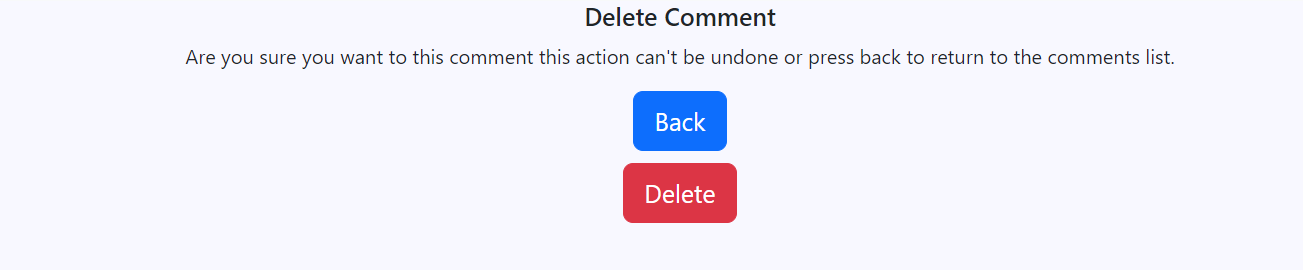
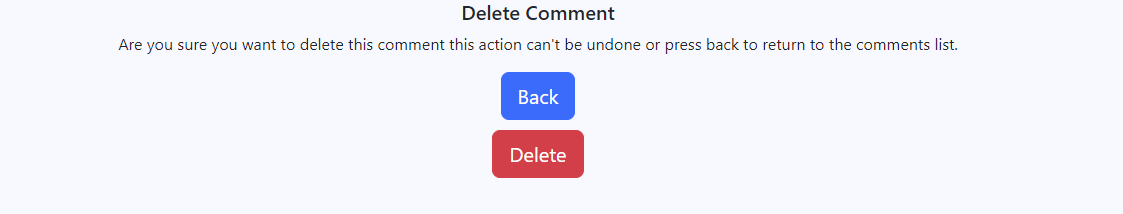
Updated delete comment admin wireframe for readme

diff --git a/guides/templates/delete_comment.html b/guides/templates/delete_comment.html
@@ -4,7 +4,7 @@
 <div class="container-fluid">
     <h3 class="text-center">Delete Comment</h3>
     {% if user.is_superuser %}
-    <p class="text-center">Are you sure you want to this comment this action can't be undone
+    <p class="text-center">Are you sure you want to delete this comment this action can't be undone
         or press back to
         return to the comments list.</p>
     {% else %}

diff --git a/README.md b/README.md
@@ -244,7 +244,7 @@ This is the Trophy title and its description
 
 ![Mobile Trophy](static/images/trophy-detail-mobile.png)
 
-This is the Guides Associated with this trophy
+This is the Guide detail view Associated with this trophy
 
 ![Mobile Guide](static/images/guide-detail-mobile.png)
 
@@ -255,7 +255,7 @@ This is the Trophy title and its description
 
 ![Desktop Trophy](static/images/trophy-detail-desktop.png)
 
-This is the Guides Associated with this trophy
+This is the Guide detail view Associated with this trophy
 
 ![Desktop Guide](static/images/guide-detail-desktop.png)
 
